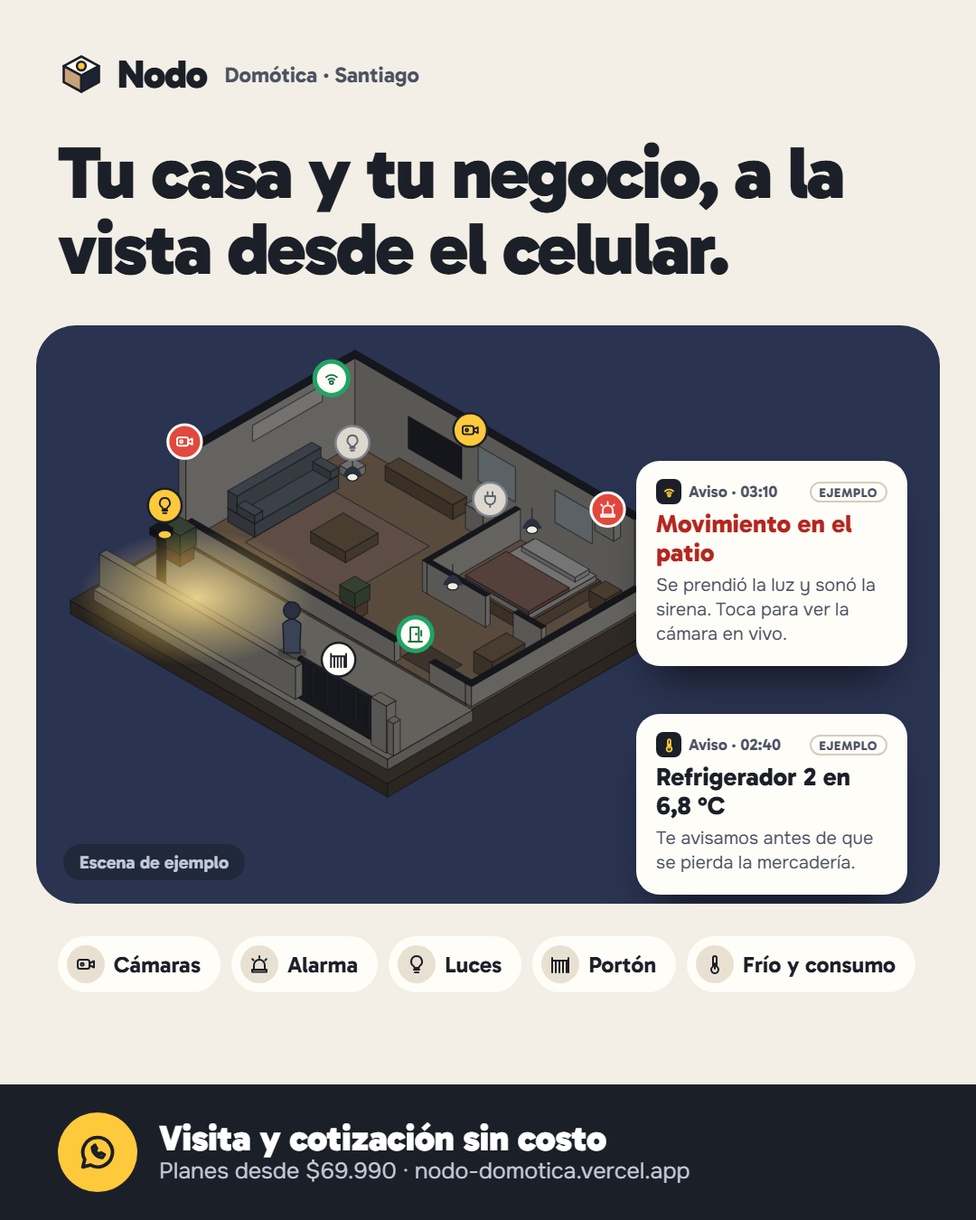
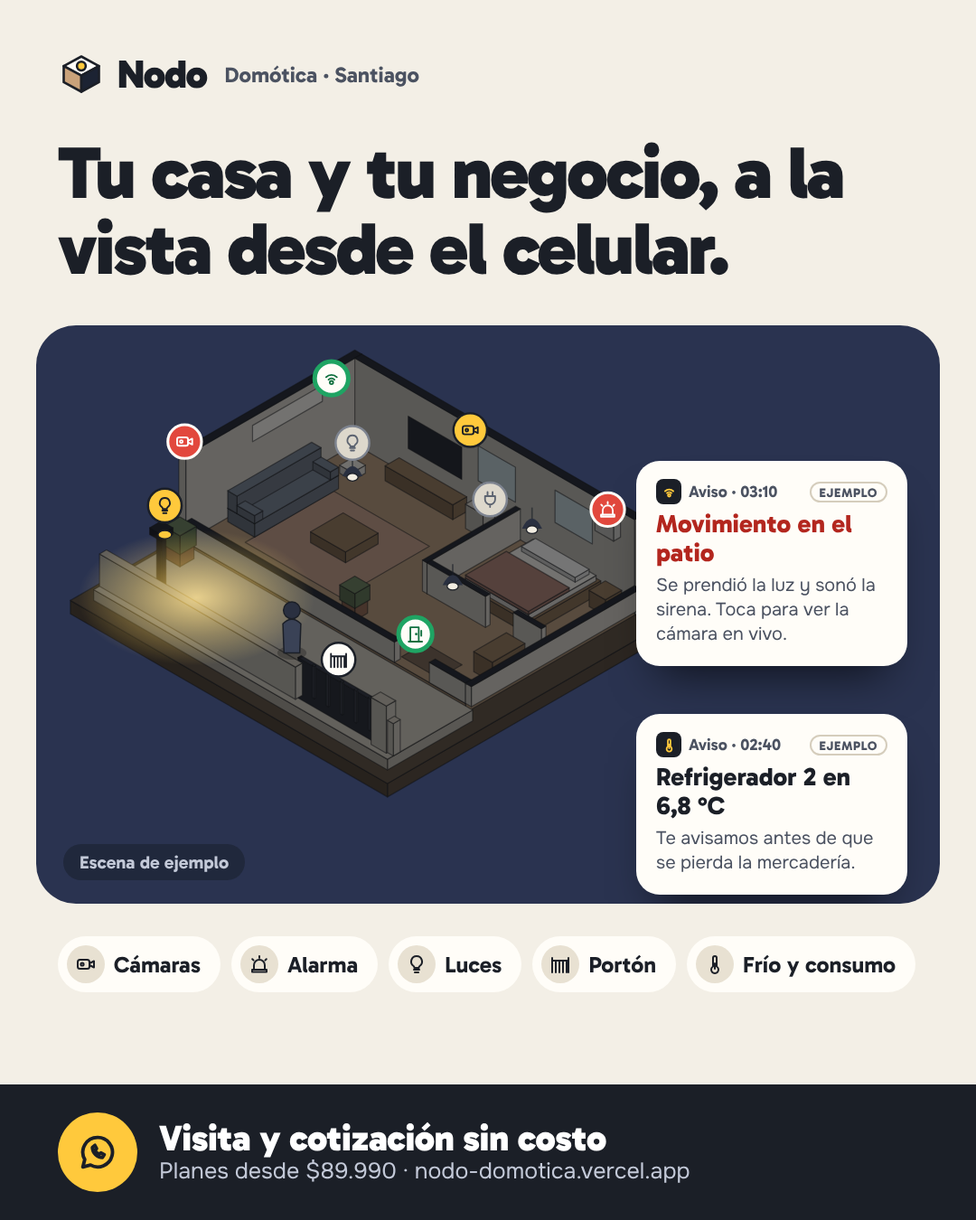
Publicación de Facebook con precio fundador (#3)
Texto (versión 3) e imagen nueva; imagen original regenerada con
el precio actualizado.

Claude-Session: https://claude.ai/code/session_01Sx9PViexdrXiX1CYCkBzqV

diff --git a/redes/post-facebook-fundador.html b/redes/post-facebook-fundador.html
@@ -1,0 +1,331 @@
+<!doctype html>
+<html lang="es"><head><meta charset="utf-8"><title>Nodo post Facebook precio fundador</title>
+<link href="https://fonts.googleapis.com/css2?family=Gabarito:wght@600;700;800;900&family=Onest:wght@400;500;700&display=swap" rel="stylesheet">
+<style>
+:root{--cal:#F3EFE6;--cal-2:#E8E1D2;--papel:#FFFDF8;--tinta:#1B1F27;--tinta-2:#4B5261;--regla:#D5CDBC;--noche:#1C2333;--noche-tinta:#C3C9D8;--luz:#FFC93C;--seguro:#1FA463;--seguro-texto:#11703F;--alerta:#E2483D;--alerta-texto:#B3261E;--display:"Gabarito",sans-serif;--body:"Onest",sans-serif;--ease:cubic-bezier(.16,1,.3,1)}
+*{margin:0;box-sizing:border-box}
+html,body{width:1080px;height:1350px;overflow:hidden;background:var(--cal);color:var(--tinta);font-family:var(--body)}
+.ico{width:22px;height:22px;fill:none;stroke:currentColor;stroke-width:2;stroke-linecap:round;stroke-linejoin:round}
+*{transition:none!important;animation:none!important}
+/* Dibujo isométrico */
+.iso polygon, .iso path.edge { stroke: #1B1F27; stroke-opacity: .5; stroke-width: 1; stroke-linejoin: round; }
+.iso .ns, .iso .ns polygon { stroke: none; }
+.iso .cord { stroke: #1B1F27; stroke-width: 1.4; stroke-opacity: .6; }
+.iso .struct { transition: filter 1.2s var(--ease); }
+.iso.night .struct { filter: brightness(.46) saturate(.7); }
+.iso .glow { opacity: 0; mix-blend-mode: screen; transition: opacity .7s var(--ease); }
+.iso .glow.lit { opacity: 1; }
+.iso .bulb-l { fill: #F2EDE2; transition: fill .5s var(--ease); }
+.iso .bulb-l.lit { fill: var(--luz); }
+.iso .face-l { opacity: 0; transition: opacity .6s var(--ease); }
+.iso .face-l.lit { opacity: 1; }
+.iso .show { opacity: 0; transition: opacity .6s var(--ease), transform .8s var(--ease); }
+.iso .show.shown { opacity: 1; }
+.iso .gate { transition: transform 1.4s var(--ease); }
+.iso .gate.open { transform: translate(var(--gx), var(--gy)); }
+.iso .mk .ring { fill: var(--papel); stroke: var(--tinta); stroke-width: 2; transition: fill .4s var(--ease), stroke .4s var(--ease); }
+.iso .mk use { color: var(--tinta); transition: color .4s var(--ease); }
+.iso .mk .halo { fill: none; stroke: var(--alerta); stroke-width: 3; opacity: 0; transform-box: fill-box; transform-origin: center; }
+.iso .mk.on .ring { fill: var(--luz); }
+.iso .mk.armed .ring { stroke: var(--seguro); stroke-width: 4; }
+.iso .mk.armed use { color: var(--seguro-texto); }
+.iso .mk.off .ring { fill: #DDD8CC; stroke: #7E8490; }
+.iso .mk.off use { color: #5C6370; }
+.iso .mk.alert .ring { fill: var(--alerta); stroke: var(--papel); stroke-width: 2.5; }
+.iso .mk.alert use { color: #FFFFFF; }
+.iso .mk.alert .halo { animation: halo 1.6s var(--ease) infinite; }
+@keyframes halo { from { opacity: .9; transform: scale(1); } to { opacity: 0; transform: scale(2.1); } }
+.iso .tag-t { font: 800 13px var(--display); fill: #FFFFFF; }
+
+
+.top{position:absolute;left:64px;top:56px;display:flex;align-items:center;gap:14px;font:900 44px var(--display);letter-spacing:-.03em}
+.top svg{width:52px;height:52px}
+.top span{font:700 24px var(--display);color:var(--tinta-2);letter-spacing:0;margin-left:6px}
+h1{position:absolute;left:64px;top:150px;width:960px;font:900 82px/1.02 var(--display);letter-spacing:-.03em}
+.stage{position:absolute;left:40px;top:360px;width:1000px;height:640px;background:#2A3350;border-radius:44px;overflow:hidden}
+.stage .scene{position:absolute;left:20px;top:10px;width:700px;height:auto}
+.iso.night .struct{filter:brightness(.46) saturate(.7)}
+.tag{position:absolute;left:30px;bottom:26px;font:700 20px var(--display);color:var(--noche-tinta);background:rgba(28,35,51,.7);border-radius:999px;padding:8px 18px}
+.notif{position:absolute;right:36px;top:150px;width:300px;background:var(--papel);border-radius:26px;padding:20px 22px 22px;display:grid;gap:6px;box-shadow:0 30px 50px -24px rgba(0,0,0,.7)}
+.notif .app{display:flex;align-items:center;gap:8px;font:700 18px var(--display);color:var(--tinta-2)}
+.notif .app i{width:28px;height:28px;border-radius:8px;background:var(--tinta);color:var(--luz);display:grid;place-items:center}
+.notif .app i .ico{width:17px;height:17px;stroke-width:2.6}
+.notif .app em{margin-left:auto;font-style:normal;font-weight:800;font-size:14px;letter-spacing:.05em;text-transform:uppercase;border:2px solid var(--regla);border-radius:999px;padding:2px 9px 0}
+.notif strong{font:800 28px/1.15 var(--display);color:var(--alerta-texto)}
+.notif p{font-size:20px;line-height:1.35;color:var(--tinta-2)}
+.notif.ok strong{color:var(--tinta)}
+.notif.second{top:430px}
+.svc{position:absolute;left:64px;top:1036px;width:960px;display:flex;flex-wrap:wrap;gap:12px}
+.svc span{display:inline-flex;align-items:center;gap:10px;background:var(--papel);border-radius:999px;padding:10px 22px 10px 10px;font:700 25px var(--display)}
+.svc span b{width:42px;height:42px;border-radius:50%;background:var(--cal-2);display:grid;place-items:center}
+.svc span b .ico{width:24px;height:24px}
+.band{position:absolute;left:0;top:1200px;width:1080px;height:150px;background:var(--tinta);color:#fff;display:flex;align-items:center;gap:24px;padding:0 64px}
+.band .bulb{width:88px;height:88px;border-radius:50%;background:var(--luz);color:var(--tinta);display:grid;place-items:center;flex:none}
+.band .bulb .ico{width:46px;height:46px}
+.band strong{font:900 40px/1.05 var(--display);display:block;letter-spacing:-.01em}
+.band em{font:400 25px var(--body);font-style:normal;color:var(--noche-tinta)}
+.promo{position:absolute;right:64px;top:58px;display:flex;align-items:center;gap:10px;background:var(--luz);color:var(--tinta);border-radius:999px;padding:10px 24px;font:900 26px var(--display);letter-spacing:-.01em;box-shadow:0 10px 24px -14px rgba(27,31,39,.6)}
+.promo i{font-style:normal;background:var(--tinta);color:var(--luz);border-radius:999px;padding:3px 12px;font-size:22px}
+.band strong b{color:var(--luz)}
+</style></head><body>
+<svg width="0" height="0" style="position:absolute" aria-hidden="true">
+  <symbol id="i-cam" viewBox="0 0 24 24"><rect x="3" y="7" width="13" height="10" rx="2.5"/><path d="m16 11 5-2.5v7L16 13"/><circle cx="8" cy="12" r="1.6"/></symbol>
+  <symbol id="i-sirena" viewBox="0 0 24 24"><path d="M6 18v-5a6 6 0 0 1 12 0v5"/><path d="M4 18h16v2.5H4zM12 3v2M4.2 6.2l1.4 1.4M19.8 6.2l-1.4 1.4"/></symbol>
+  <symbol id="i-luz" viewBox="0 0 24 24"><path d="M9 18h6M10 21h4M12 3a6 6 0 0 0-3.6 10.8c.7.5 1.1 1.3 1.1 2.2h5c0-.9.4-1.7 1.1-2.2A6 6 0 0 0 12 3z"/></symbol>
+  <symbol id="i-porton" viewBox="0 0 24 24"><path d="M3 21V5M21 21V5M3 8h18M7 8v13M11 8v13M15 8v13M19 8v13"/></symbol>
+  <symbol id="i-energia" viewBox="0 0 24 24"><path d="M13 2 4.5 13.5H11L10 22l8.5-11.5H12z"/></symbol>
+  <symbol id="i-frio" viewBox="0 0 24 24"><path d="M10 14.5V5a2 2 0 1 1 4 0v9.5a4 4 0 1 1-4 0z"/><path d="M12 11v6"/></symbol>
+  <symbol id="i-letrero" viewBox="0 0 24 24"><rect x="3" y="5" width="18" height="10" rx="2"/><path d="M8 15v5M16 15v5M7 10h10"/></symbol>
+  <symbol id="i-wa" viewBox="0 0 24 24"><path d="M12 3.5a8.5 8.5 0 0 0-7.4 12.7L3.5 20.5l4.4-1.1A8.5 8.5 0 1 0 12 3.5z"/><path d="M9 9.2c0 3 2.6 5.8 5.8 5.8l1-1.6-1.9-1-1 .8c-1-.4-1.9-1.3-2.3-2.3l.8-1-1-1.9z"/></symbol>
+  <symbol id="i-casa" viewBox="0 0 24 24"><path d="M3.5 11 12 4l8.5 7"/><path d="M6 9.5V20h12V9.5"/><path d="M10 20v-5h4v5"/></symbol>
+  <symbol id="i-local" viewBox="0 0 24 24"><path d="M4 9.5 5.5 4h13L20 9.5"/><path d="M4 9.5a2.7 2.7 0 0 0 5.3 0 2.7 2.7 0 0 0 5.4 0 2.7 2.7 0 0 0 5.3 0"/><path d="M5.5 12v8h13v-8M10 20v-4.5h4V20"/></symbol>
+  <symbol id="i-ok" viewBox="0 0 24 24"><circle cx="12" cy="12" r="9"/><path d="m8 12.3 2.7 2.7L16.2 9.5"/></symbol>
+  <symbol id="i-herr" viewBox="0 0 24 24"><path d="M14.5 6.5a4 4 0 0 0-5.3 5L3.5 17.2l3.3 3.3 5.7-5.7a4 4 0 0 0 5-5.3l-2.6 2.6-2.4-.6-.6-2.4z"/></symbol>
+  <symbol id="i-app" viewBox="0 0 24 24"><rect x="6.5" y="2.5" width="11" height="19" rx="2.5"/><path d="M10.5 18.5h3"/></symbol>
+  <symbol id="i-obra" viewBox="0 0 24 24"><path d="M4 20h16M6 20V10l6-5 6 5v10"/><path d="M10 20v-6h4v6"/></symbol>
+  <symbol id="i-puerta" viewBox="0 0 24 24"><path d="M6 21V4h10v17M4 21h16"/><path d="M13 12h.01" stroke-width="3"/><path d="M19 8v6"/></symbol>
+  <symbol id="i-mov" viewBox="0 0 24 24"><circle cx="12" cy="17" r="2"/><path d="M8.5 13.5a5 5 0 0 1 7 0M5.6 10.6a9 9 0 0 1 12.8 0"/></symbol>
+  <symbol id="i-enchufe" viewBox="0 0 24 24"><path d="M9 3v5M15 3v5M6 8h12v4a6 6 0 0 1-12 0zM12 18v3"/></symbol>
+  <symbol id="i-aire" viewBox="0 0 24 24"><rect x="3" y="5" width="18" height="7" rx="2"/><path d="M7 15c0 2 1 3 0 5M12 15v5M17 15c0 2-1 3 0 5"/></symbol>
+  <symbol id="i-salir" viewBox="0 0 24 24"><path d="M14 4h5v16h-5M10 8l-4 4 4 4M6 12h10"/></symbol>
+  <symbol id="i-llegar" viewBox="0 0 24 24"><path d="M3 18h18M5 18l1.5-5h11L19 18M8 13l1.2-3h5.6L16 13"/><circle cx="8" cy="18" r="1.6"/><circle cx="16" cy="18" r="1.6"/></symbol>
+  <symbol id="i-luna" viewBox="0 0 24 24"><path d="M20 14.5A8 8 0 1 1 9.5 4a6.5 6.5 0 0 0 10.5 10.5z"/></symbol>
+  <symbol id="i-abrir" viewBox="0 0 24 24"><circle cx="12" cy="12" r="4"/><path d="M12 2v2.5M12 19.5V22M2 12h2.5M19.5 12H22M4.9 4.9l1.8 1.8M17.3 17.3l1.8 1.8M4.9 19.1l1.8-1.8M17.3 6.7l1.8-1.8"/></symbol>
+  <symbol id="i-candado" viewBox="0 0 24 24"><rect x="5" y="10.5" width="14" height="10" rx="2.5"/><path d="M8 10.5V7.5a4 4 0 0 1 8 0v3"/></symbol>
+  <symbol id="i-chat" viewBox="0 0 24 24"><path d="M4 5h16v11H9l-5 4z"/></symbol>
+  <symbol id="i-precio" viewBox="0 0 24 24"><path d="M5 3h14v18l-3.5-2-3.5 2-3.5-2L5 21z"/><path d="M9 8h6M9 12h6M9 16h3"/></symbol>
+</svg>
+<div class="top"><svg viewBox="0 0 32 32"><path d="M16 4 28 10.5 16 17 4 10.5Z" fill="#FFFDF8" stroke="#1B1F27" stroke-width="1.6" stroke-linejoin="round"/><path d="M4 10.5 16 17v11L4 21.5Z" fill="#C9A27A" stroke="#1B1F27" stroke-width="1.6" stroke-linejoin="round"/><path d="M28 10.5 16 17v11l12-6.5Z" fill="#1C2333" stroke="#1B1F27" stroke-width="1.6" stroke-linejoin="round"/><circle cx="16" cy="10.5" r="3" fill="#FFC93C" stroke="#1B1F27" stroke-width="1.6"/></svg>Nodo<span>Domótica · Santiago</span></div>
+<div class="promo">Precio fundador <i>quedan 5 cupos</i></div>
+<h1>Tu casa y tu negocio, a la vista desde el celular.</h1>
+<div class="stage"><div id="sc"></div>
+  <div class="notif"><span class="app"><i><svg class="ico"><use href="#i-mov"/></svg></i>Aviso · 03:10<em>Ejemplo</em></span><strong>Movimiento en el patio</strong><p>Se prendió la luz y sonó la sirena. Toca para ver la cámara en vivo.</p></div>
+  <div class="notif second ok"><span class="app"><i><svg class="ico"><use href="#i-frio"/></svg></i>Aviso · 02:40<em>Ejemplo</em></span><strong>Refrigerador 2 en 6,8&nbsp;°C</strong><p>Te avisamos antes de que se pierda la mercadería.</p></div>
+  <span class="tag">Escena de ejemplo</span>
+</div>
+<div class="svc">
+  <span><b><svg class="ico"><use href="#i-cam"/></svg></b>Cámaras</span>
+  <span><b><svg class="ico"><use href="#i-sirena"/></svg></b>Alarma</span>
+  <span><b><svg class="ico"><use href="#i-luz"/></svg></b>Luces</span>
+  <span><b><svg class="ico"><use href="#i-porton"/></svg></b>Portón</span>
+  <span><b><svg class="ico"><use href="#i-frio"/></svg></b>Frío y consumo</span>
+</div>
+<div class="band"><span class="bulb"><svg class="ico"><use href="#i-wa"/></svg></span><div><strong>Primeros 5 clientes: <b>10% menos</b></strong><em>+ 1 mes de soporte gratis · nodo-domotica.vercel.app</em></div></div>
+<script>
+(function(){
+// ===== Motor isométrico =====
+  var K = 0.8660254;
+  function hex(h) { return [parseInt(h.slice(1, 3), 16), parseInt(h.slice(3, 5), 16), parseInt(h.slice(5, 7), 16)]; }
+  function dark(h, a) { var c = hex(h); return "rgb(" + c.map(function (v) { return Math.round(v * (1 - a)); }).join(",") + ")"; }
+  function Iso(S) { this.S = S; this.b = [1e9, 1e9, -1e9, -1e9]; }
+  Iso.prototype.p = function (x, y, z) {
+    var X = (x - y) * K * this.S, Y = (x + y) * 0.5 * this.S - z * this.S, b = this.b;
+    if (X < b[0]) b[0] = X; if (Y < b[1]) b[1] = Y; if (X > b[2]) b[2] = X; if (Y > b[3]) b[3] = Y;
+    return [X, Y];
+  };
+  Iso.prototype.pts = function (list) { var self = this; return list.map(function (q) { var r = self.p(q[0], q[1], q[2]); return r[0].toFixed(1) + "," + r[1].toFixed(1); }).join(" "); };
+  Iso.prototype.poly = function (list, fill, attrs) { return '<polygon points="' + this.pts(list) + '" fill="' + fill + '"' + (attrs || "") + "/>"; };
+  // Caja: caras visibles = arriba, frente izquierdo (y+d) y frente derecho (x+w)
+  Iso.prototype.box = function (x, y, z, w, d, h, col, o) {
+    o = o || {};
+    var X = x + w, Y = y + d, Z = z + h;
+    var right = this.poly([[X, y, z], [X, Y, z], [X, Y, Z], [X, y, Z]], o.right || dark(col, .1));
+    var left = this.poly([[x, Y, z], [X, Y, z], [X, Y, Z], [x, Y, Z]], o.left || dark(col, .2));
+    var top = this.poly([[x, y, Z], [X, y, Z], [X, Y, Z], [x, Y, Z]], o.top || col);
+    return "<g" + (o.attrs || "") + ">" + right + left + top + "</g>";
+  };
+  // Cara plana en el muro del fondo (y fijo) o en el muro izquierdo (x fijo)
+  Iso.prototype.wallY = function (y, x1, x2, z1, z2, fill, attrs) { return this.poly([[x1, y, z1], [x2, y, z1], [x2, y, z2], [x1, y, z2]], fill, attrs); };
+  Iso.prototype.wallX = function (x, y1, y2, z1, z2, fill, attrs) { return this.poly([[x, y1, z1], [x, y2, z1], [x, y2, z2], [x, y1, z2]], fill, attrs); };
+  Iso.prototype.floor = function (x1, y1, x2, y2, z, fill, attrs) { return this.poly([[x1, y1, z], [x2, y1, z], [x2, y2, z], [x1, y2, z]], fill, attrs); };
+  Iso.prototype.glow = function (x, y, z, r, id, grad) {
+    var c = this.p(x, y, z);
+    return '<ellipse class="glow ns" data-light="' + id + '" cx="' + c[0].toFixed(1) + '" cy="' + c[1].toFixed(1) + '" rx="' + (r * this.S * 1.22).toFixed(1) + '" ry="' + (r * this.S * 0.7).toFixed(1) + '" fill="url(#' + grad + ')"/>';
+  };
+  Iso.prototype.bulb = function (x, y, z, id) {
+    var c = this.p(x, y, z), top = this.p(x, y, 3.25);
+    return '<line class="cord" x1="' + c[0].toFixed(1) + '" y1="' + top[1].toFixed(1) + '" x2="' + c[0].toFixed(1) + '" y2="' + (c[1] - 6).toFixed(1) + '"/>' +
+      '<path class="ns" d="M' + (c[0] - 9).toFixed(1) + " " + (c[1] + 2).toFixed(1) + " Q" + c[0].toFixed(1) + " " + (c[1] - 16).toFixed(1) + " " + (c[0] + 9).toFixed(1) + " " + (c[1] + 2).toFixed(1) + 'Z" fill="#2A3040"/>' +
+      '<ellipse class="bulb-l" data-light="' + id + '" cx="' + c[0].toFixed(1) + '" cy="' + (c[1] + 3).toFixed(1) + '" rx="5" ry="3.4" stroke="#1B1F27" stroke-width="1"/>';
+  };
+  Iso.prototype.mark = function (x, y, z, id, icon) {
+    var c = this.p(x, y, z);
+    return '<g class="mk" data-dev="' + id + '" transform="translate(' + c[0].toFixed(1) + " " + c[1].toFixed(1) + ')"><circle class="halo" r="15"/><circle class="ring" r="15"/><use href="#i-' + icon + '" x="-9" y="-9" width="18" height="18" class="ico"/></g>';
+  };
+  Iso.prototype.svg = function (inner, cls, label, pad) {
+    var b = this.b, p = pad || 18;
+    var vb = (b[0] - p).toFixed(0) + " " + (b[1] - p).toFixed(0) + " " + (b[2] - b[0] + 2 * p).toFixed(0) + " " + (b[3] - b[1] + 2 * p).toFixed(0);
+    return '<svg class="iso ' + (cls || "") + '" viewBox="' + vb + '"' + (label ? ' role="img" aria-label="' + label + '"' : ' aria-hidden="true"') + ">" + inner + "</svg>";
+  };
+  var DEFS = '<defs><radialGradient id="gl"><stop offset="0" stop-color="#FFD25A" stop-opacity=".85"/><stop offset=".55" stop-color="#FFC93C" stop-opacity=".35"/><stop offset="1" stop-color="#FFC93C" stop-opacity="0"/></radialGradient>' +
+    '<radialGradient id="glc"><stop offset="0" stop-color="#DFF3FF" stop-opacity=".8"/><stop offset="1" stop-color="#DFF3FF" stop-opacity="0"/></radialGradient></defs>';
+
+  var C = { cal: "#EFE8DA", muro: "#F4EFE4", corte: "#2C3344", madera: "#C9A27A", madera2: "#A9825B", baldosa: "#D9D2C3", tierra: "#6E5B48", tela: "#7D8DA6", manta: "#C98A7A", blanco: "#FBF8F1", metal: "#C7CCD4", oscuro: "#2A3040", vidrio: "#BFD6E0", planta: "#6E8F5E" };
+
+  function casa() {
+    var I = new Iso(24), s = [], l = [], m = [];
+    s.push(I.box(-0.8, -0.8, -1.0, 13.6, 12.2, 0.5, C.tierra));
+    s.push(I.box(-0.3, -0.3, -0.35, 0.3, 7.55, 3.55, C.muro, { top: C.corte }));
+    s.push(I.box(0, -0.3, -0.35, 12, 0.3, 3.55, C.muro, { top: C.corte }));
+    s.push(I.box(0, 0, -0.35, 12, 7.25, 0.35, C.madera));
+    s.push(I.box(-0.3, 7.25, -0.5, 12.6, 3.65, 0.4, C.baldosa));
+    // ventanas y tele en el muro del fondo
+    s.push(I.wallY(0.01, 5.3, 6.9, 1.3, 2.6, C.vidrio));
+    s.push(I.wallY(0.01, 8.6, 10.2, 1.4, 2.6, C.vidrio));
+    s.push(I.wallY(0.01, 2.3, 4.6, 1.0, 2.2, C.oscuro));
+    s.push(I.wallX(0.01, 1.4, 4.4, 2.3, 2.9, C.blanco));
+    // living
+    s.push(I.floor(1.3, 2.2, 5.4, 6.0, 0.01, "#D9A58A"));
+    s.push(I.box(2.0, 0.1, 0, 2.9, 0.6, 0.55, C.madera2));
+    s.push(I.box(5.5, 0.25, 0, 0.75, 0.5, 0.9, "#E3DED3", { attrs: ' data-obj="estufa"' }));
+    s.push(I.box(0.15, 2.0, 0, 1.15, 3.6, 0.5, C.tela));
+    s.push(I.box(0.15, 2.0, 0.5, 0.4, 3.6, 0.65, C.tela));
+    s.push(I.box(0.55, 2.0, 0.5, 0.75, 0.35, 0.3, C.tela));
+    s.push(I.box(0.55, 5.25, 0.5, 0.75, 0.35, 0.3, C.tela));
+    s.push(I.box(2.7, 3.2, 0, 1.5, 1.4, 0.4, C.madera2));
+    s.push(I.box(6.0, 6.0, 0, 0.55, 0.55, 0.5, "#B87B5A"));
+    s.push(I.box(5.95, 5.95, 0.5, 0.65, 0.65, 0.55, C.planta));
+    s.push(I.box(3.25, 3.35, 2.5, 0.55, 0.55, 0.3, C.blanco, { top: "#F7F3EA" }));
+    // tabique living/dormitorio
+    s.push(I.box(6.9, 0, 0, 0.2, 4.0, 1.15, C.muro, { top: C.corte }));
+    // dormitorio
+    s.push(I.box(7.9, 0.25, 0, 2.9, 3.1, 0.45, C.madera2));
+    s.push(I.box(8.0, 0.35, 0.45, 2.7, 2.9, 0.2, C.blanco));
+    s.push(I.box(8.2, 0.45, 0.65, 2.3, 0.6, 0.18, "#FFFFFF"));
+    s.push(I.box(8.0, 1.5, 0.65, 2.7, 1.75, 0.12, C.manta));
+    s.push(I.box(11.05, 0.3, 0, 0.7, 0.7, 0.6, C.madera2));
+    s.push(I.box(10.6, 0, 2.25, 0.8, 0.3, 0.6, "#F1F1EE"));
+    // tabique dormitorio/hall
+    s.push(I.box(7.1, 3.8, 0, 2.5, 0.2, 1.15, C.muro, { top: C.corte }));
+    s.push(I.box(10.8, 3.8, 0, 1.2, 0.2, 1.15, C.muro, { top: C.corte }));
+    // hall
+    s.push(I.box(11.0, 4.5, 0, 0.8, 1.4, 0.75, C.madera2));
+    s.push(I.floor(8.9, 5.9, 10.5, 6.9, 0.01, "#8A6E57"));
+    // muro frontal y lateral cortados
+    s.push(I.box(0, 7.0, 0, 8.95, 0.25, 0.75, C.muro, { top: C.corte }));
+    s.push(I.box(10.45, 7.0, 0, 1.55, 0.25, 0.75, C.muro, { top: C.corte }));
+    s.push(I.box(12, 0, 0, 0.25, 7.25, 0.75, C.muro, { top: C.corte }));
+    // patio
+    s.push(I.box(0.1, 7.6, -0.1, 0.6, 0.6, 0.5, "#B87B5A"));
+    s.push(I.box(0.05, 7.55, 0.4, 0.7, 0.7, 0.7, C.planta));
+    s.push(I.box(1.1, 9.4, -0.1, 0.2, 0.2, 2.1, C.oscuro));
+    s.push(I.box(0.95, 9.25, 2.0, 0.5, 0.5, 0.25, C.oscuro));
+    // portón (corre hacia la izquierda, detrás del muro)
+    var gp = I.p(-3.1, 0, 0), g0 = I.p(0, 0, 0);
+    s.push('<g class="gate" data-gate style="--gx:' + (gp[0] - g0[0]).toFixed(1) + "px;--gy:" + (gp[1] - g0[1]).toFixed(1) + 'px">' +
+      I.box(8.1, 10.4, -0.1, 3.3, 0.14, 1.5, "#3A4256") +
+      [8.6, 9.2, 9.8, 10.4, 11.0].map(function (x) { return I.box(x, 10.36, 0.1, 0.08, 0.06, 1.2, "#59627A"); }).join("") + "</g>");
+    s.push(I.box(-0.3, 10.35, -0.1, 8.4, 0.3, 1.2, C.cal, { top: "#D8CFBD" }));
+    s.push(I.box(11.4, 10.3, -0.1, 0.65, 0.4, 1.75, C.cal, { top: "#D8CFBD" }));
+    s.push(I.box(12.05, 10.35, -0.1, 0.25, 0.3, 1.2, C.cal, { top: "#D8CFBD" }));
+    // noche
+    // luces (sobre la sombra)
+    l.push(I.glow(3.5, 3.6, 0, 3.0, "living", "gl"));
+    l.push(I.glow(9.4, 1.8, 0.6, 2.4, "dorm", "gl"));
+    l.push(I.glow(9.8, 5.6, 0, 2.0, "hall", "gl"));
+    l.push(I.glow(2.2, 9.0, -0.1, 3.6, "patio", "gl"));
+    l.push(I.glow(5.9, 1.1, 0, 1.4, "estufa", "gl"));
+    l.push(I.bulb(3.5, 3.6, 2.45, "living"));
+    l.push(I.bulb(9.4, 1.8, 2.55, "dorm"));
+    l.push(I.bulb(9.8, 5.6, 2.55, "hall"));
+    var pf = I.p(1.2, 9.35, 2.0);
+    l.push('<ellipse class="bulb-l" data-light="patio" cx="' + pf[0].toFixed(1) + '" cy="' + (pf[1] + 2).toFixed(1) + '" rx="6" ry="3.6" stroke="#1B1F27" stroke-width="1"/>');
+    l.push(I.poly([[5.6, 0.75, 0.15], [6.15, 0.75, 0.15], [6.15, 0.75, 0.75], [5.6, 0.75, 0.75]], "#FFB23C", ' class="face-l ns" data-light="estufa"'));
+    // intruso
+    var f = I.p(6.4, 9.1, 0);
+    l.push('<g class="show" data-show="intruso"><ellipse class="ns" cx="' + f[0].toFixed(1) + '" cy="' + (f[1]).toFixed(1) + '" rx="13" ry="6" fill="#000" opacity=".25"/>' +
+      '<path d="M' + (f[0] - 7) + " " + f[1] + " L" + (f[0] - 8) + " " + (f[1] - 26) + " Q" + f[0] + " " + (f[1] - 34) + " " + (f[0] + 8) + " " + (f[1] - 26) + " L" + (f[0] + 7) + " " + f[1] + 'Z" fill="#3A4256" stroke="#1B1F27" stroke-width="1.2"/>' +
+      '<circle cx="' + f[0] + '" cy="' + (f[1] - 38) + '" r="7.5" fill="#2A3040" stroke="#1B1F27" stroke-width="1.2"/></g>');
+    // marcadores
+    m.push(I.mark(4.95, 0, 3.0, "cam-int", "cam"));
+    m.push(I.mark(-0.15, 7.15, 3.6, "cam-ext", "cam"));
+    m.push(I.mark(0, 1.0, 2.95, "mov", "mov"));
+    m.push(I.mark(11.0, 0.15, 3.15, "sirena", "sirena"));
+    m.push(I.mark(9.7, 7.1, 1.35, "puerta", "puerta"));
+    m.push(I.mark(6.4, 0.6, 1.45, "estufa", "enchufe"));
+    m.push(I.mark(3.5, 3.6, 3.6, "luz", "luz"));
+    m.push(I.mark(1.2, 9.35, 3.0, "luz-patio", "luz"));
+    m.push(I.mark(9.8, 10.5, 2.15, "porton", "porton"));
+    return I.svg(DEFS + '<g class="struct">' + s.join("") + "</g>" + l.join("") + m.join(""), "scene", "", 14);
+  }
+
+  function negocio() {
+    var I = new Iso(24), s = [], l = [], m = [];
+    s.push(I.box(-0.8, -0.8, -1.0, 13.6, 11.4, 0.5, C.tierra));
+    s.push(I.box(-0.3, -0.3, -0.35, 0.3, 7.55, 3.55, C.muro, { top: C.corte }));
+    s.push(I.box(0, -0.3, -0.35, 12, 0.3, 3.55, C.muro, { top: C.corte }));
+    s.push(I.box(0, 0, -0.35, 12, 7.25, 0.35, "#D7D3CB"));
+    s.push(I.box(-0.3, 7.25, -0.5, 12.6, 2.85, 0.4, "#C9C3B6"));
+    // estantes en el muro del fondo
+    [0.2, 1.0, 1.8].forEach(function (z, k) {
+      s.push(I.box(0.3, 0.05, z, 4.6, 0.7, 0.12, C.madera2));
+      var cols = ["#E2483D", "#3E7CB1", "#E9B949", "#6E8F5E", "#C98A7A", "#3E7CB1", "#E9B949", "#E2483D"];
+      for (var i = 0; i < 7; i++) s.push(I.box(0.45 + i * 0.62, 0.15, z + 0.12, 0.42, 0.45, 0.48, cols[(i + k * 3) % cols.length]));
+    });
+    s.push(I.box(0.3, 0.05, 2.6, 4.6, 0.7, 0.12, C.madera2));
+    // tablero eléctrico y aire en el muro izquierdo
+    s.push(I.wallX(0.01, 4.5, 5.5, 1.1, 2.3, "#B9BEC6"));
+    s.push(I.box(0, 2.0, 2.45, 0.35, 2.2, 0.5, "#F1F1EE"));
+    // refrigeradores
+    s.push(I.box(5.6, 0.15, 0, 1.4, 1.05, 2.6, C.metal));
+    s.push(I.box(7.15, 0.15, 0, 1.4, 1.05, 2.6, C.metal));
+    // cámara de frío
+    s.push(I.wallY(0.01, 9.2, 11.4, 0, 2.7, "#AEB5BF"));
+    s.push(I.wallY(0.02, 9.4, 11.2, 0.1, 2.55, "#C9CED6"));
+    s.push(I.box(10.9, 0.02, 1.1, 0.15, 0.12, 0.5, C.oscuro));
+    // mesas
+    s.push(I.box(1.5, 3.8, 0, 1.1, 1.1, 0.75, C.madera2));
+    s.push(I.box(1.5, 5.5, 0, 1.1, 1.1, 0.75, C.madera2));
+    s.push(I.box(3.1, 4.05, 0, 0.55, 0.55, 0.45, C.oscuro));
+    s.push(I.box(3.1, 5.75, 0, 0.55, 0.55, 0.45, C.oscuro));
+    // mesón y caja
+    s.push(I.box(7.2, 4.2, 0, 3.8, 1.1, 1.0, C.madera));
+    s.push(I.box(9.6, 4.35, 1.0, 0.85, 0.7, 0.35, C.oscuro));
+    s.push(I.box(5.1, 2.9, 2.5, 0.5, 0.5, 0.3, C.blanco, { top: "#F7F3EA" }));
+    s.push(I.box(8.9, 4.5, 2.6, 0.5, 0.5, 0.3, C.blanco, { top: "#F7F3EA" }));
+    // fachada cortada y letrero
+    s.push(I.box(0, 7.0, 0, 7.6, 0.25, 0.75, C.muro, { top: C.corte }));
+    s.push(I.box(9.4, 7.0, 0, 2.6, 0.25, 0.75, C.muro, { top: C.corte }));
+    s.push(I.box(12, 0, 0, 0.25, 7.25, 0.75, C.muro, { top: C.corte }));
+    s.push(I.box(-0.5, 7.25, 2.2, 0.25, 2.2, 0.9, "#3A4256", { attrs: ' data-obj="letrero"' }));
+    // noche
+    // luces
+    l.push(I.glow(3.0, 3.0, 0, 3.6, "salon", "gl"));
+    l.push(I.glow(9.1, 4.8, 0, 2.8, "meson", "gl"));
+    l.push(I.glow(6.9, 1.9, 0, 2.2, "frio", "glc"));
+    l.push(I.bulb(5.35, 3.15, 2.45, "salon"));
+    l.push(I.bulb(9.15, 4.75, 2.55, "meson"));
+    [5.6, 7.15].forEach(function (x, k) {
+      l.push(I.poly([[x + 0.15, 1.2, 0.2], [x + 1.25, 1.2, 0.2], [x + 1.25, 1.2, 2.4], [x + 0.15, 1.2, 2.4]], k === 1 ? "#F07A6F" : "#DDF0F7", ' class="face-l ns' + (k === 1 ? '" data-light="frio2"' : '" data-light="frio"') + ' opacity=".9"'));
+      for (var j = 0; j < 4; j++) l.push(I.poly([[x + 0.2, 1.21, 0.45 + j * 0.5], [x + 1.2, 1.21, 0.45 + j * 0.5], [x + 1.2, 1.21, 0.55 + j * 0.5], [x + 0.2, 1.21, 0.55 + j * 0.5]], "#7FA3B5", ' class="ns" opacity=".55"'));
+    });
+    l.push(I.poly([[-0.25, 7.25, 2.3], [-0.25, 9.35, 2.3], [-0.25, 9.35, 3.0], [-0.25, 7.25, 3.0]], "#FFC93C", ' class="face-l ns" data-light="letrero"'));
+    var lt = I.p(-0.25, 8.3, 2.55);
+    l.push('<text class="ns" x="0" y="5" text-anchor="middle" transform="matrix(1 -0.5774 0 1 ' + lt[0].toFixed(1) + " " + lt[1].toFixed(1) + ')" style="font: 900 13px var(--display); fill: #1B1F27; letter-spacing: .04em">ABIERTO</text>');
+    var tt = I.p(7.85, 1.2, 4.75);
+    l.push('<g class="show" data-show="temp"><rect x="' + (tt[0] - 33).toFixed(1) + '" y="' + (tt[1] - 13).toFixed(1) + '" width="66" height="26" rx="13" fill="#B3261E"/><text class="tag-t" x="' + tt[0].toFixed(1) + '" y="' + (tt[1] + 5).toFixed(1) + '" text-anchor="middle">6,8 °C</text></g>');
+    // marcadores
+    m.push(I.mark(4.6, 0, 3.15, "cam-int", "cam"));
+    m.push(I.mark(-0.15, 7.15, 3.65, "cam-ext", "cam"));
+    m.push(I.mark(0, 5.0, 1.7, "energia", "energia"));
+    m.push(I.mark(0.1, 3.1, 3.4, "aire", "aire"));
+    m.push(I.mark(6.3, 1.2, 3.05, "frio1", "frio"));
+    m.push(I.mark(7.85, 1.2, 3.05, "frio2", "frio"));
+    m.push(I.mark(10.3, 0, 1.9, "puerta-frio", "puerta"));
+    m.push(I.mark(0, 0.8, 3.0, "sirena", "sirena"));
+    m.push(I.mark(5.35, 3.15, 3.55, "luz", "luz"));
+    m.push(I.mark(-0.4, 9.7, 3.55, "letrero", "letrero"));
+    m.push(I.mark(8.5, 7.1, 1.35, "puerta", "puerta"));
+    return I.svg(DEFS + '<g class="struct">' + s.join("") + "</g>" + l.join("") + m.join(""), "scene", "", 14);
+  }
+
+  
+var host=document.getElementById("sc"); host.innerHTML=casa();
+var svg=host.querySelector("svg"); svg.classList.add("night");
+svg.querySelectorAll('[data-light="patio"]').forEach(function(e){e.classList.add("lit")});
+svg.querySelectorAll('[data-show="intruso"]').forEach(function(e){e.classList.add("shown")});
+var st={"cam-ext":"alert",sirena:"alert","luz-patio":"on",puerta:"armed",mov:"armed",luz:"off",estufa:"off","cam-int":"on"};
+svg.querySelectorAll(".mk").forEach(function(e){e.setAttribute("class","mk "+(st[e.getAttribute("data-dev")]||"idle"))});
+})();
+</script>
+</body></html>
